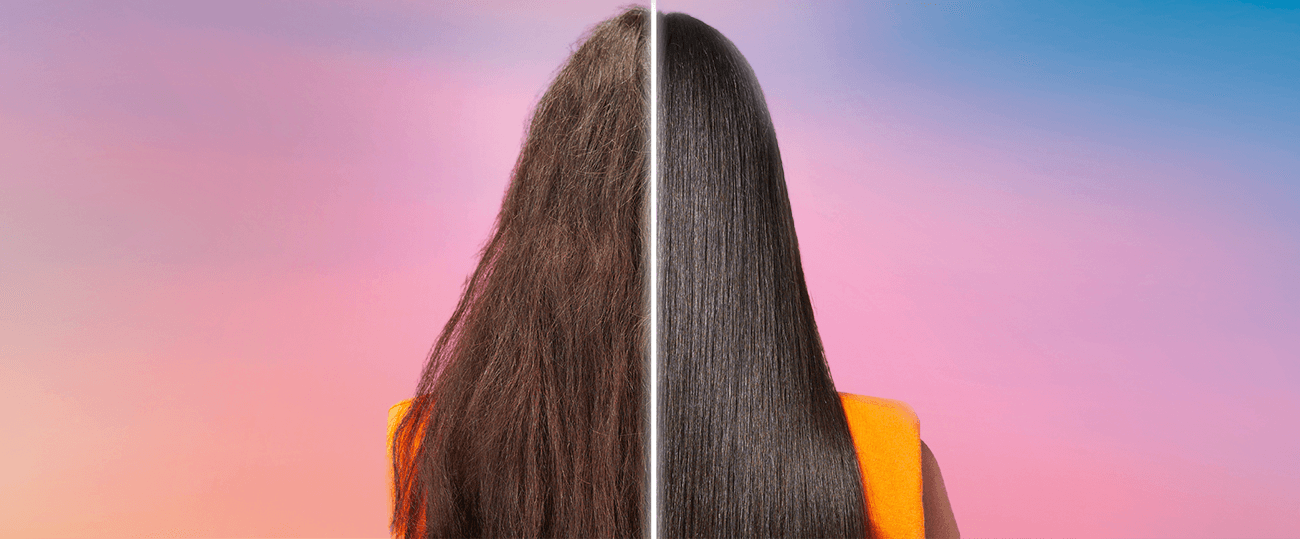
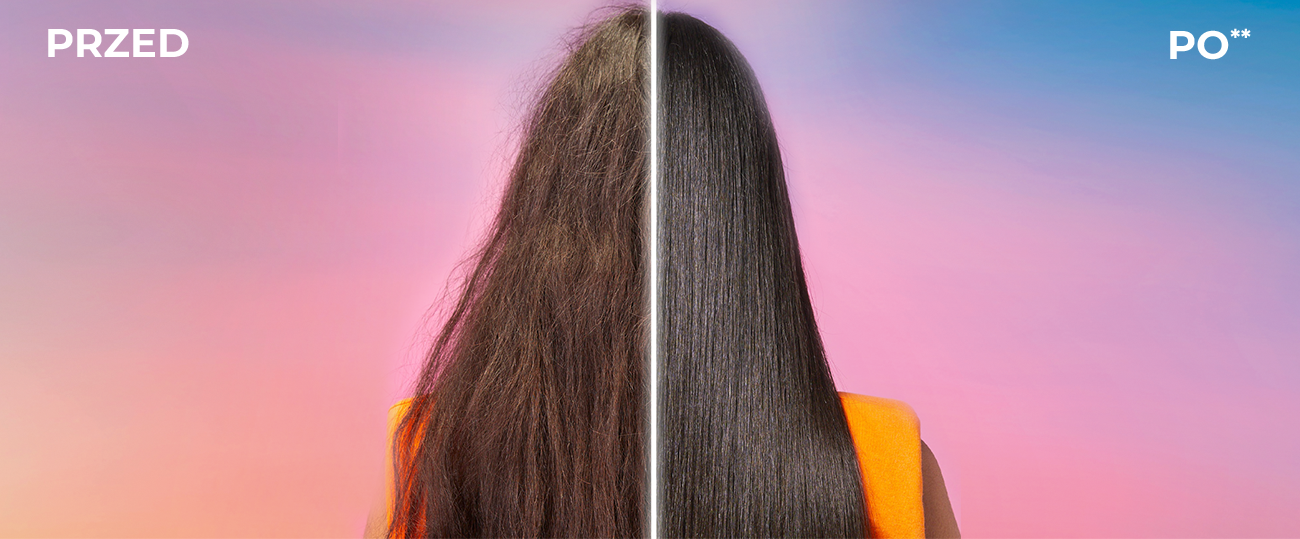
add second vid

diff --git a/3600542502566/style/style.scss b/3600542502566/style/style.scss
@@ -389,14 +389,19 @@ $padding--XXL: 6rem;
     }
   }
   .es-before-after {
-    background-image: url("#{$file-path}bg-before-after#{$img-format}");
-    @include bg-cover(center);
-    @include flex(row, space-between);
-    @include heading($fw--bold, white);
-    font-size: $fs__body;
-    padding: $padding--L;
-    margin-block: $padding--XL;
-    min-height: 300px;
+    // background-image: url("#{$file-path}bg-before-after#{$img-format}");
+    // @include bg-cover(center);
+    // @include flex(row, space-between);
+    // @include heading($fw--bold, white);
+    // font-size: $fs__body;
+    // padding: $padding--L;
+    
+    margin: 0 auto;
+    #es-video__player--2 {
+      max-width: 100%;
+      display: block;
+      margin-block: $padding--XL;
+    }
   }
   .es-routine {
     text-align: center;

diff --git a/3600542502566/style/style.css b/3600542502566/style/style.css
@@ -296,22 +296,12 @@
   display: block;
 }
 #es-RC-container .es-before-after {
-  background-image: url("../images/bg-before-after.png");
-  background-size: cover;
-  background-repeat: no-repeat;
-  background-position: center;
-  display: flex;
-  flex-direction: row;
-  justify-content: space-between;
-  font-family: "Montserrat", "DejaVu Sans", "Verdana", sans-serif;
-  font-weight: 700;
-  text-transform: uppercase;
-  font-size: 700;
-  color: white;
-  font-size: clamp(0.875rem, 0.8rem + 0.4vw, 1rem);
-  padding: 2rem;
+  margin: 0 auto;
+}
+#es-RC-container .es-before-after #es-video__player--2 {
+  max-width: 100%;
+  display: block;
   margin-block: 3rem;
-  min-height: 300px;
 }
 #es-RC-container .es-routine {
   text-align: center;

diff --git a/3600542502566.html b/3600542502566.html
@@ -150,8 +150,16 @@
     </section>
 
     <section class="es-before-after">
-      <p>przed</p>
-      <p>po**</p>
+      <div class="es-video__wrapper">
+        <video controls playsinline poster="./3600542502566/images/bg-before-after.png" id="es-video__player--2">
+        <source src="./3600542502566/videos/Hairdrink-beforeafter.mp4" type="video/mp4">
+        <source src="./3600542502566/videos/Hairdrink-beforeafter.ogg" type="video/ogg">
+        Twoja przeglądarka nie pozwala na wyświetlanie filmów.
+      </video>
+      </div>
+    </div>
+      <!-- <p>przed</p>
+      <p>po**</p> -->
     </section>
 
     <section class="es-routine">
